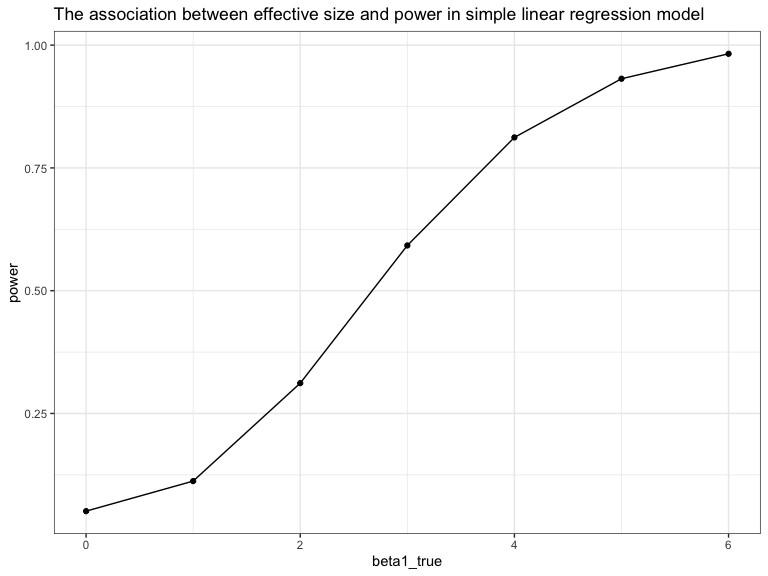
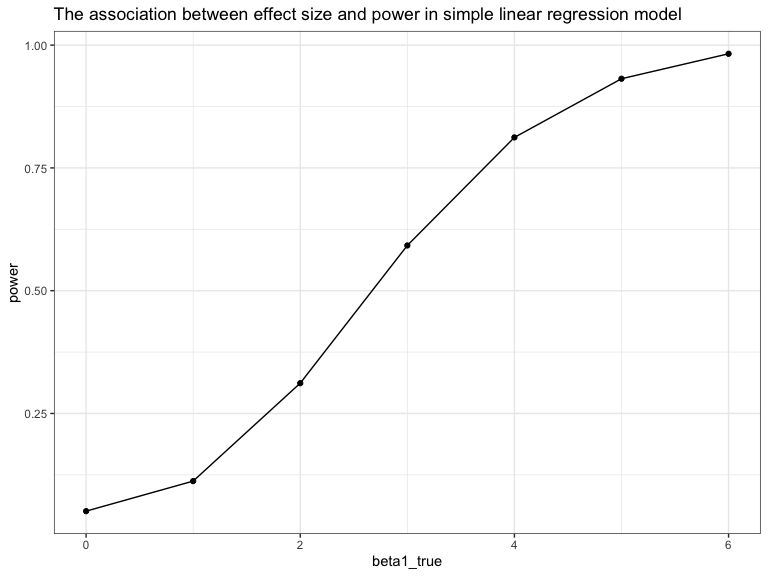
Problem 3 : power and effect size plot

Changed region(s): [[0.375, 0.0, 0.9375, 0.0625]]

diff --git a/p8105_hw5_gl2677.md b/p8105_hw5_gl2677.md
@@ -168,3 +168,22 @@ sim_results =
   select(beta1_true, estimate, p.value) %>%
   mutate(significant = as.numeric(p.value < 0.05))
 ```
+
+### Power and effect size
+
+``` r
+sim_results %>% 
+  group_by(beta1_true) %>% 
+  summarise(power = sum(significant)/10000) %>% 
+  ggplot(aes(x = beta1_true, y = power)) + 
+  geom_point() +
+  geom_line() +
+  labs(title = "The association between effect size and power in simple linear regression model")
+```
+
+<img src="p8105_hw5_gl2677_files/figure-gfm/unnamed-chunk-4-1.png" width="90%" />
+
+The power increases as the effect size of true beta1 increases. When
+true beta1 = 0, it is equal to null hypothesis. So the power is the
+probability to reject null under null hypothesis, which is near alpha =
+0.05, and this is exactly as expected.
